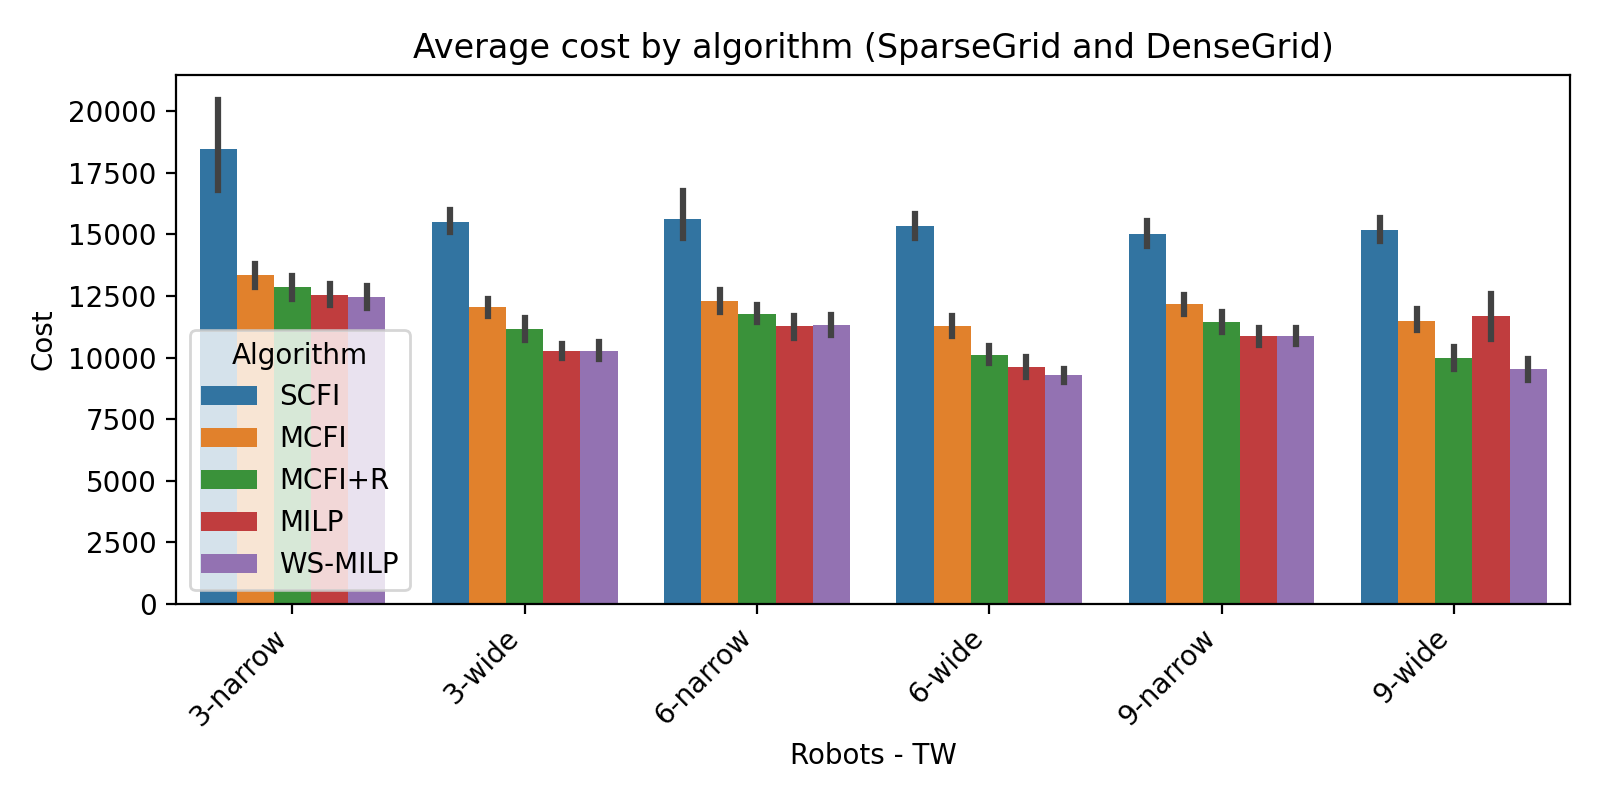
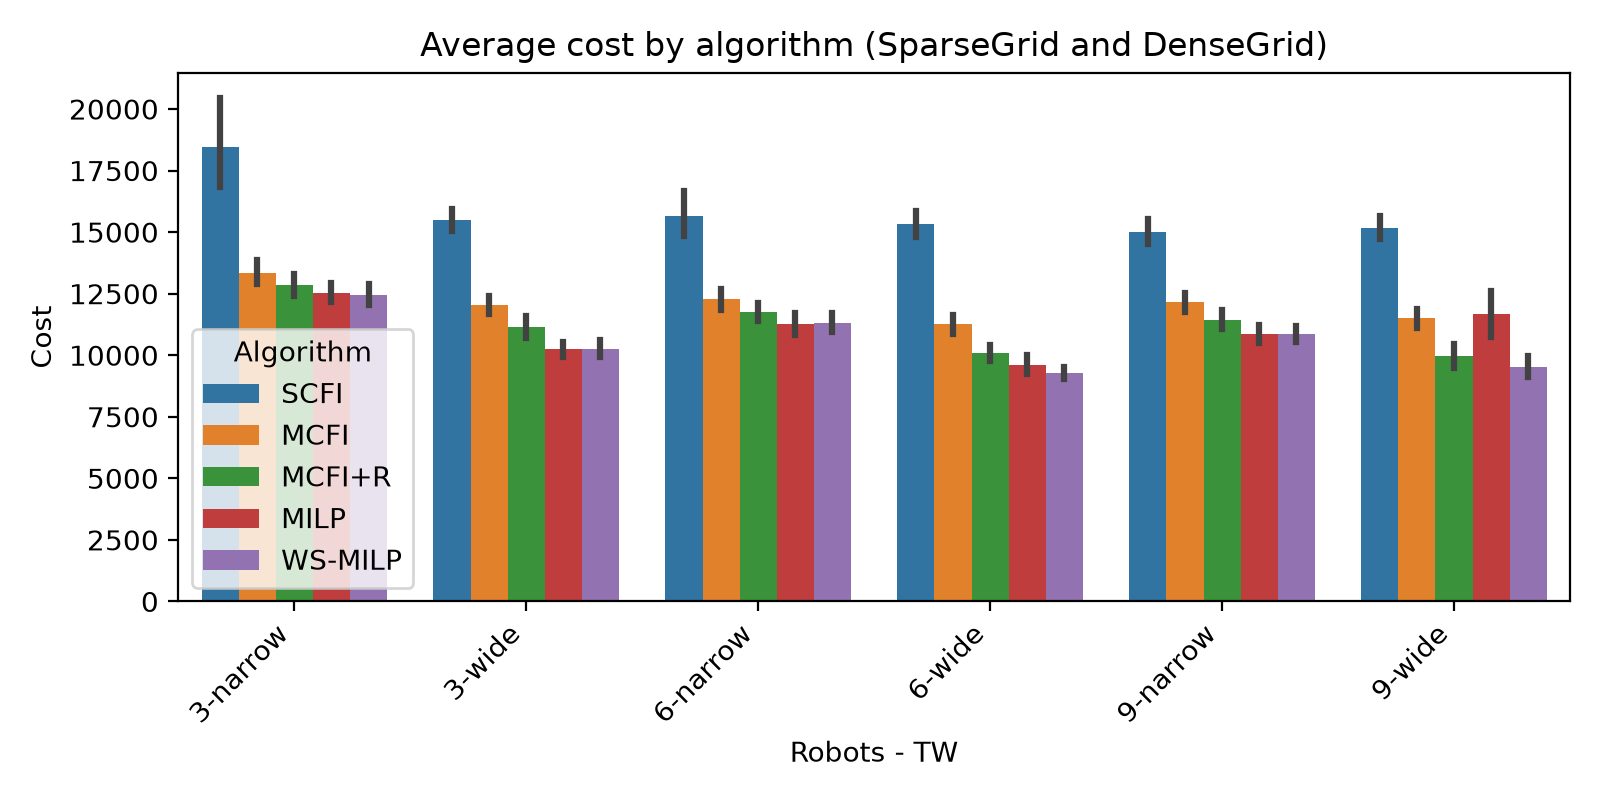
Figures: fixed seed for the bootstrap confidence intervals (reproducible figures)

diff --git a/scripts/make_paper_tables.py b/scripts/make_paper_tables.py
@@ -325,7 +325,7 @@ def figures(w, fig_dir):
     data = pd.DataFrame(rows).sort_values('order')
     for y, name, log in (('Time (s)', 'time_per_request.png', True), ('Cost', 'cost_per_algorithm.png', False)):
         fig, ax = plt.subplots(figsize=(8, 4))
-        sns.barplot(data=data, x='Robots - TW', y=y, hue='Algorithm', hue_order=list(ALGS), ax=ax, errorbar=('ci', 95))
+        sns.barplot(data=data, x='Robots - TW', y=y, hue='Algorithm', hue_order=list(ALGS), ax=ax, errorbar=('ci', 95), seed=0)
         if log:
             ax.set_yscale('log')
         ax.set_title(('Average time per request' if log else 'Average cost') + ' by algorithm (SparseGrid and DenseGrid)')
@@ -477,7 +477,7 @@ def call_figures(calls, fig_dir):
                            ('Gap', 'gap_per_active_tasks.png', 'Mean optimality gap per call')):
         fig, ax = plt.subplots(figsize=(10, 5))
         sns.barplot(data=data.dropna(subset=[y]), x='Active tasks', y=y, hue='Method', hue_order=['WS-MILP', 'MILP'],
-                    errorbar=('ci', 95), ax=ax)
+                    errorbar=('ci', 95), seed=0, ax=ax)
         ax.set_title(f'{title} by number of active tasks (SparseGrid and DenseGrid)')
         ax.grid(axis='y', linewidth=0.5)
         fig.tight_layout()
